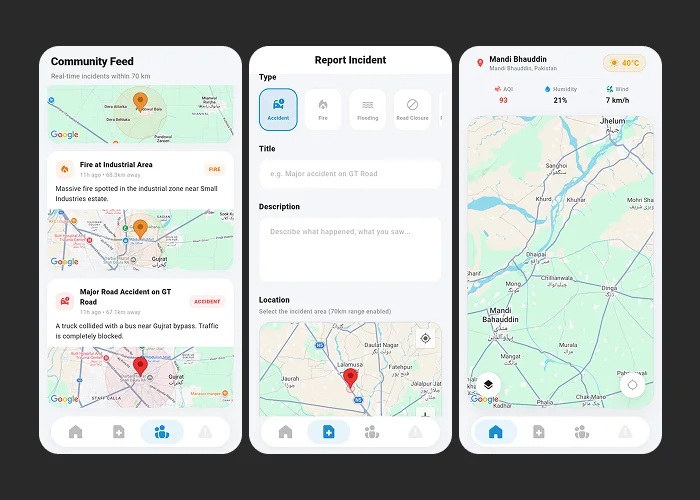
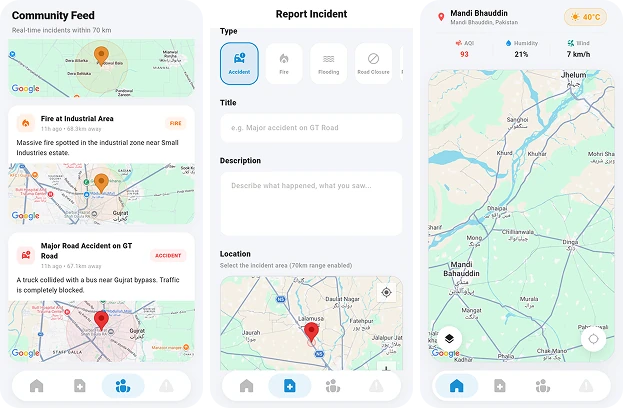
Use transparent ShareBeam and Ciro screenshots

diff --git a/index.html b/index.html
@@ -95,7 +95,9 @@ li{margin:2px 0}
 .panel strong{color:var(--ink);font-weight:600}
 .tags{display:flex;flex-wrap:wrap;gap:6px;margin:6px 0 0;padding:0;list-style:none}
 .shot{margin:0 0 14px}
-.shot img,.shot video{display:block;width:100%;height:auto;border-radius:8px;background:#2a2a2a}
+.shot img,.shot video{display:block;width:100%;height:auto;border-radius:8px}
+.shot video{background:#2a2a2a}
+.shot img{width:auto;max-width:100%;margin:0 auto}
 .shot figcaption{margin-top:6px;font-size:12.5px;color:var(--mute)}
 .split{display:grid;grid-template-columns:200px minmax(0,1fr);gap:20px;align-items:start}
 .phone{margin:0}
@@ -327,7 +329,7 @@ li{margin:2px 0}
         </div>
         <button class="more" type="button" aria-expanded="false" aria-controls="d-sharebeam"><span class="lbl">View details</span> <svg viewBox="0 0 12 12" aria-hidden="true"><path d="M2 4l4 4 4-4"/></svg></button>
         <div class="detail" id="d-sharebeam"><div><div class="panel">
-          <figure class="shot"><img src="media/sharebeam.webp" width="1400" height="1000" loading="lazy" decoding="async" alt="ShareBeam app screens: chat-style file feed, connected participants, and automatic download settings"></figure>
+          <figure class="shot"><img src="media/sharebeam.webp" width="617" height="408" loading="lazy" decoding="async" alt="ShareBeam app screens: chat-style file feed, connected participants, and automatic download settings"></figure>
           <h4>What it is</h4>
           <p>A cross-platform app for sending files and messages between devices on the same local network, from phone to laptop and back.</p>
           <h4>Why it's fast</h4>
@@ -351,7 +353,7 @@ li{margin:2px 0}
         </div>
         <button class="more" type="button" aria-expanded="false" aria-controls="d-ciro"><span class="lbl">View details</span> <svg viewBox="0 0 12 12" aria-hidden="true"><path d="M2 4l4 4 4-4"/></svg></button>
         <div class="detail" id="d-ciro"><div><div class="panel">
-          <figure class="shot"><img src="media/ciro.webp" width="700" height="500" loading="lazy" decoding="async" alt="Ciro app screens: community incident feed, incident report form, and local weather map"></figure>
+          <figure class="shot"><img src="media/ciro.webp" width="623" height="408" loading="lazy" decoding="async" alt="Ciro app screens: community incident feed, incident report form, and local weather map"></figure>
           <h4>What it is</h4>
           <p>A hackathon project: a mobile app that keeps people informed about emergencies and serious events near them.</p>
           <h4>How it works</h4>
